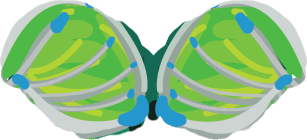
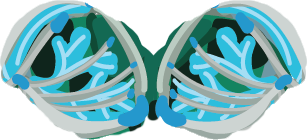
Body progresses as a whole, progress bars

diff --git a/Spacefarm/assets/www/farming/body.js b/Spacefarm/assets/www/farming/body.js
@@ -1,6 +1,8 @@
 goog.provide('farming.Body');
 goog.require('lime.Layer');
 goog.require('farming.Sprite');
+goog.require('lime.RoundedRect');
+goog.require('lime.fill.Stroke');
 
 /**
  * Crop elements
@@ -13,6 +15,8 @@ farming.Body = function(scale) {
         scale = 1;
 
     this.bodyLayer = new lime.Layer();
+    this.levelNumber = new lime.Label().setFontSize(20);
+    this.levelLabel = new lime.Label().setFontSize(15);
     this.scale = scale;
     this.appendChild(this.bodyLayer);
 }
@@ -21,86 +25,83 @@ goog.inherits(farming.Body,lime.Layer);
 farming.Body.prototype.scale = null;
 
 // redraw the inventory
-farming.Body.prototype.redraw = function (body, position, showLevels) {
+farming.Body.prototype.redraw = function (body, position) {
     if(position)
         this.position = position;
 
     var position = this.position;
-    if(showLevels === false)
-        this.hideLevels = true;
-
     if(this.bodyLayer) {
-        var parent = this.bodyLayer.parent_;
-        parent.removeChild(this.bodyLayer);
-        this.bodyLayer = new lime.Layer();
-        parent.appendChild(this.bodyLayer);
+        this.bodyLayer.removeAllChildren();
     }
     this.drawBase(position);
+    this.drawBack(body.back, new goog.math.Coordinate(position.x, position.y - (this.scale*50)));
     this.drawArms(body.arms, new goog.math.Coordinate(position.x, position.y - (this.scale*2)));
     this.drawLegs(body.legs, new goog.math.Coordinate(position.x + (this.scale*2), position.y + (this.scale*47)));
     this.drawAbs(body.abs, position);
     this.drawChest(body.chest, new goog.math.Coordinate(position.x - (this.scale*1), position.y - (this.scale*30)));
+    if(this.scale > 1) {
+        var level = this.getBodyLevel(this);
+        this.levelNumber.setText('Level '+level).setPosition(position.x, position.y + (this.scale*105));
+        this.levelLabel.setText(LEVEL_TEXTS[level]).setPosition(position.x, position.y + (this.scale*105)+20);
+        this.bodyLayer.appendChild(this.levelLabel).appendChild(this.levelNumber);
+    }
 }
 farming.Body.prototype.drawBase= function (center) {
     var icon = new farming.Sprite('images/body/exoskeleton.png').setSize(this.scale*100, this.scale*200).setPosition(center);
     this.bodyLayer.appendChild(icon);
 }
 farming.Body.prototype.drawBack = function (number, center) {
-    var level = this.getLevel(number)
+    var level = this.getBodyLevel(this);
     var icon = new farming.Sprite('images/body/back'+level+'.png').setSize(this.scale*50, this.scale*50).setPosition(center);
-    var label = new lime.Label().setText(level).setSize(this.scale*10, this.scale*10).setPosition(center);
-
+    if(this.scale > 1)
+    icon.appendChild(this.getProgressBar('Back', number, this.getTargetXP(number), 40, 8, 65, 0));
     this.bodyLayer.appendChild(icon);
-    if(!this.hideLevels) {
-        farming.Body.prototype.addPopup(icon, "back level " + this.getLevel(number) + ": " + number + "/" + this.getTargetXP(number) + " points");
-        //this.bodyLayer.appendChild(label);
-    }
+
 }
 farming.Body.prototype.drawArms = function (number, center) {
-    var level = this.getLevel(number);
+    var level = this.getBodyLevel(this);
     var icon = new lime.Sprite().setFill('images/body/arms'+level+'.png').setSize(this.scale*74, this.scale*50).setPosition(center);
-    var label = new lime.Label().setText(level).setSize(this.scale*10, this.scale*10).setPosition(center);
-
+    if(this.scale > 1)
+    icon.appendChild(this.getProgressBar('Arms', number, this.getTargetXP(number), 40, 8, 85, -10));
     this.bodyLayer.appendChild(icon);
-    if(!this.hideLevels) {
-        farming.Body.prototype.addPopup(icon, "arms level " + this.getLevel(number) + ": " + number + "/" + this.getTargetXP(number) + " points", -65);
-        //this.bodyLayer.appendChild(label);
-    }
 }
 farming.Body.prototype.drawLegs = function (number, center) {
-    var level = this.getLevel(number);
+    var level = this.getBodyLevel(this);
     var icon = new lime.Sprite().setFill('images/body/legs'+level+'.png').setSize(this.scale*55, this.scale*85).setPosition(center);
-    var label = new lime.Label().setText(level).setSize(this.scale*10, this.scale*10).setPosition(center);
-
+    if(this.scale > 1)
+    icon.appendChild(this.getProgressBar('Legs', number, this.getTargetXP(number), 40, 8, -65, 0));
     this.bodyLayer.appendChild(icon);
-    if(!this.hideLevels) {
-        farming.Body.prototype.addPopup(icon, "legs level " + this.getLevel(number) + ": " + number + "/" + this.getTargetXP(number) + " points");
-        //this.bodyLayer.appendChild(label);
-    }
 }
 farming.Body.prototype.drawChest = function (number, center) {
-    var level = this.getLevel(number);
+    var level = this.getBodyLevel(this);
     var icon = new lime.Sprite().setFill('images/body/chest'+level+'.png').setSize(this.scale*60, this.scale*30).setPosition(center);
-    var label = new lime.Label().setText(level).setSize(this.scale*10, this.scale*10).setPosition(center);
-
+    if(this.scale > 1)
+    icon.appendChild(this.getProgressBar('Chest', number, this.getTargetXP(number), 40, 8, -85, 10));
     this.bodyLayer.appendChild(icon);
-    if(!this.hideLevels) {
-        farming.Body.prototype.addPopup(icon, "chest level " + this.getLevel(number) + ": " + number + "/" + this.getTargetXP(number) + " points", -30);
-        //this.bodyLayer.appendChild(label);
-    }
 }
 farming.Body.prototype.drawAbs = function (number, center) {
-    var level = this.getLevel(number);
+    var level = this.getBodyLevel(this);
     var icon = new lime.Sprite().setFill('images/body/abs'+level+'.png').setSize(this.scale*50, this.scale*50).setPosition(center);
-    var label = new lime.Label().setText(level).setSize(this.scale*10, this.scale*10).setPosition(center);
-
+    if(this.scale > 1)
+    icon.appendChild(this.getProgressBar('Abs', number, this.getTargetXP(number), 40, 8, -85, 10));
     this.bodyLayer.appendChild(icon);
-    if(!this.hideLevels) {
-        farming.Body.prototype.addPopup(icon, "abs level " + this.getLevel(number) + ": " + number + "/" + this.getTargetXP(number) + " points", 60);
-        //this.bodyLayer.appendChild(label);
-    }
 }
 
+farming.Body.prototype.getProgressBar = function (type, number, max, width, height, x, y, color) {
+    var bg = new lime.RoundedRect().setSize(width,height).setPosition(x,y).setFill('#777777').setStroke(new lime.fill.Stroke(1,'#444444'));
+    var percent = this.getXPOverLevel(number)/this.getXPOverLevel(max);
+    var progressWidth = width*percent-2;
+    var fg = new lime.RoundedRect().setSize(progressWidth, height-2).setPosition(-width*(1-percent)/2,0).setFill(percent >= 1 ? '#00ff44' : '#77ccff');
+    var label = new lime.Label().setText(type+' '+this.getXPOverLevel(number)+'/'+this.getXPOverLevel(max)).setPosition(0,-14);
+    bg.appendChild(label);
+    if(progressWidth > 0) bg.appendChild(fg);
+    return bg;
+
+}
+
+
+
+/*
 // Mouseover / mouseout
 farming.Body.prototype.addPopup = function (target, text, yPos) {
     var xPos = 110;
@@ -115,18 +116,17 @@ farming.Body.prototype.addPopup = function (target, text, yPos) {
         }, true);
     });
     return this;
-}
+}*/
 
-var LEVELS = [5, 10, 20, 30, 50, 100, 200, 500, 1000, 10000];
+var LEVELS = [0, 5, 10, 20, 30, 50, 100, 200, 500, 1000, 10000];
+var LEVEL_TEXTS = [null,'Rusted iron body','Amethyst body','EcoPower body','Fire body',
+    'Obsidian body','Plasma body','Golden body','Diamond body','Platinum body','Printer ink body',
+    'Caramel body','Chocolate body','Banana smoothie body','Last body'
+];
 
 // Function that returns your overall level
 farming.Body.prototype.getBodyLevel = function (body) {
-    var min_xp = LEVELS[LEVELS.length - 1];
-    for(var part in body) {
-        if(body[part] < min_xp) {
-            min_xp = body[part];
-        }
-    }
+    var min_xp = Math.min.apply(null, body);
     return farming.Body.prototype.getLevel(min_xp);
 }
 // Function that returns your current level
@@ -137,10 +137,13 @@ farming.Body.prototype.getLevel = function (points) {
     }
     return 1;
 }
+farming.Body.prototype.getXPOverLevel = function (points) {
+    return points-this.getMinLevelXP(points);
+}
+farming.Body.prototype.getMinLevelXP = function (points) {
+    return LEVELS[this.getBodyLevel(this)-1];
+}
 // Function that returns the required xp for next level
 farming.Body.prototype.getTargetXP = function (points) {
-    for (var level in LEVELS) {
-        if (points < LEVELS[level])
-            return LEVELS[level];
-    }
+    return LEVELS[this.getBodyLevel(this)];
 }

diff --git a/Spacefarm/assets/www/farming/sceneClone.js b/Spacefarm/assets/www/farming/sceneClone.js
@@ -138,18 +138,15 @@ farming.SceneClone.prototype.drawCrop = function(crop, position) {
 }
 
 farming.SceneClone.prototype.drawLivestock = function(livestock, position) {
-    var livestockIcon = new farming.Sprite('images/livestock/'+livestock.key+livestock.appearances+'.png').setSize(125, 90).setPosition(position)
-        .setAction(this.startClone, {'properties': livestock,'game': this.game} );
+    var livestockIcon = new farming.Sprite('images/livestock/'+livestock.key+livestock.appearances+'.png').setSize(125, 90).setPosition(position);
 
     var livestockLabel = new farming.Label(livestock.name).setPosition(position.x, position.y + 52)
-        .setFontSize(SETTINGS.font.subtitle.size).setFontWeight(SETTINGS.font.subtitle.weight)
-        .setAction(this.startClone, {'properties': livestock,'game': this.game} );
+        .setFontSize(SETTINGS.font.subtitle.size).setFontWeight(SETTINGS.font.subtitle.weight);
 
     // Create button to clone the icon
     var cloneButton = new farming.Button('Clone').setColor(SETTINGS.color.button_primary)
         .setPosition(new goog.math.Coordinate(position.x-(SETTINGS.size.button_small.width/2),position.y+80))
-        .setSize(SETTINGS.size.button_small)
-        .setAction(this.startClone, {'properties': livestock,'game': this.game} );
+        .setSize(SETTINGS.size.button_small);
 
     // Create button to get details about the icon
     var cloneDetails = new farming.Button('Details').setColor(SETTINGS.color.button)
@@ -162,6 +159,9 @@ farming.SceneClone.prototype.drawLivestock = function(livestock, position) {
     if(!this.drawLock(livestock.required_level, position)) {
         this.drawCost(livestock.cost, position);
         this.drawFood(livestock.food, position);
+        livestockIcon.setAction(this.startClone, {'properties': livestock,'game': this.game} );
+        livestockLabel.setAction(this.startClone, {'properties': livestock,'game': this.game} );
+        cloneButton.setAction(this.startClone, {'properties': livestock,'game': this.game} );
         this.w.appendChild(cloneButton).appendChild(cloneDetails);
     }
 }

diff --git a/Spacefarm/assets/www/farming/sceneBody.js b/Spacefarm/assets/www/farming/sceneBody.js
@@ -23,9 +23,8 @@ farming.SceneBody = function (game) {
     var w = new farming.Sprite(SETTINGS.color.background_layer).preventClickThrough()
         .setSize(SETTINGS.size.background_layer).setPosition(game.getCenterPosition());
     this.title = new farming.Label('BODY').setFontSize(SETTINGS.font.title).setPosition(SETTINGS.position.title);
-    this.description = new lime.Label('The Bionic Outer Dimension Yeosuit \n' +
-    		'shows your progress. \n\n Click on it to see \n the gained experience points \n per body part.')
-        .setPosition(center.x - 140, center.y).setMultiline(true).setFontSize(15);
+    this.description = new lime.Label('Bionic Outer Dimension Yeosuit')
+        .setPosition(SETTINGS.position.title.x, SETTINGS.position.title.y+20).setMultiline(true).setFontSize(15);
 
     this.closeButton = new farming.Button('X').setColor('#999999')
         .setPosition(SETTINGS.position.close_button)
@@ -44,7 +43,7 @@ farming.SceneBody = function (game) {
         .appendChild(this.statsButton)
         .appendChild(this.closeButton);
 
-    this.body = new farming.Body(1.3);
+    this.body = new farming.Body(1.25);
     this.windowLayer.appendChild(this.body);
 }
 goog.inherits(farming.SceneBody, farming.Scene);
@@ -61,5 +60,5 @@ farming.SceneBody.prototype.showStats = function(scene) {
 
 farming.SceneBody.prototype.redraw = function(body) {
     if (this.body)
-        this.body.redraw(body, new goog.math.Coordinate(this.game.getCenterPosition().x + 150, this.game.getCenterPosition().y));
+        this.body.redraw(body, new goog.math.Coordinate(this.game.getCenterPosition().x, this.game.getCenterPosition().y-5));
 }

diff --git a/Spacefarm/assets/www/farming/game.js b/Spacefarm/assets/www/farming/game.js
@@ -444,14 +444,10 @@ farming.Game.prototype.hasItem = function(type, amount) {
 
 // -- BODY --
 farming.Game.prototype.addPoints = function(bodypart, amount) {
-    if(this.player.body[bodypart]) {
-        this.player.body[bodypart] += amount;
-    } else {
-        this.player.body[bodypart] = amount;
-    }
-
-    if(this.sceneMap.body)
-        this.sceneMap.body.redraw(this.player.body);
+    if(!this.player.body[bodypart]) this.player.body[bodypart] = 0;
+    var max = this.sceneMap.body.getTargetXP(this.player.body[bodypart]);
+    this.player.body[bodypart] = Math.min(max, this.player.body[bodypart]+amount);
+    this.sceneMap.body.redraw(this.player.body);
     return this.player.body[bodypart];
 }
 farming.Game.prototype.getPoints = function(bodypart) {

diff --git a/Spacefarm/assets/www/farming/sceneChallenge.js b/Spacefarm/assets/www/farming/sceneChallenge.js
@@ -99,7 +99,7 @@ farming.SceneChallenge.prototype.redraw = function() {
 
 farming.SceneChallenge.prototype.drawChallenge = function(challenge, position) {
     var challengeIcon = new farming.Sprite('images/challenges/'+challenge.key+'.png')
-        .setSize(100, 83).setPosition(position.x, position.y + 3).setAction(this.showChallengeDetails, {'challenge': challenge,'scene': this});
+        .setSize(80, 65).setPosition(position.x, position.y + 3).setAction(this.showChallengeDetails, {'challenge': challenge,'scene': this});
     var challengeTitle = new farming.Label(challenge.name)
         .setPosition(position.x, position.y + 44)
         .setFontSize(SETTINGS.font.subtitle.size).setFontWeight(SETTINGS.font.subtitle.weight);

diff --git a/Spacefarm/assets/www/farming/exercise.js b/Spacefarm/assets/www/farming/exercise.js
@@ -38,6 +38,10 @@ farming.Exercise = function (callbackName, target, onExerciseSuccess, onExercise
         return;
     }
     this.watchID = navigator.accelerometer.watchAcceleration(function (acceleration) {
+        if(target.exercise == null) {
+            exercise.stopWatch();
+            return;
+        }
         callback(acceleration, exercise)
     }, this.onError, options);
 
